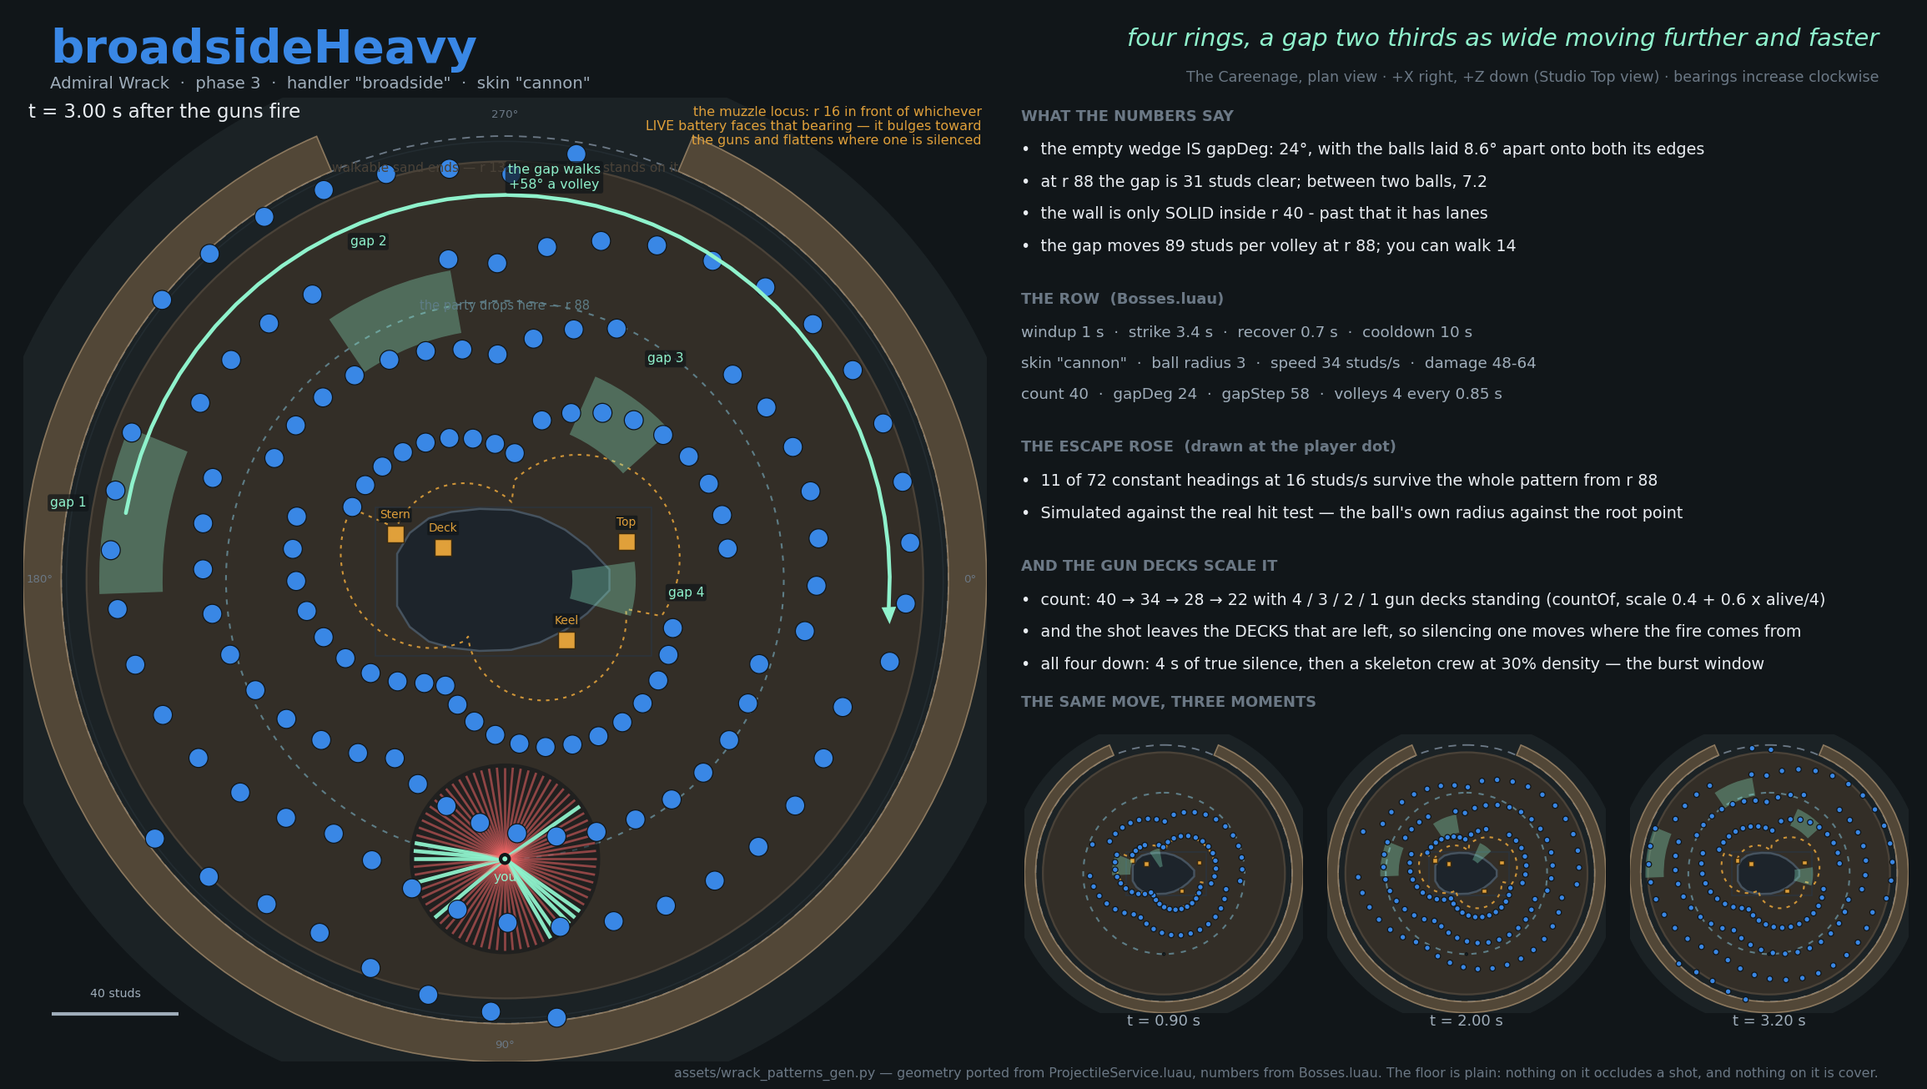
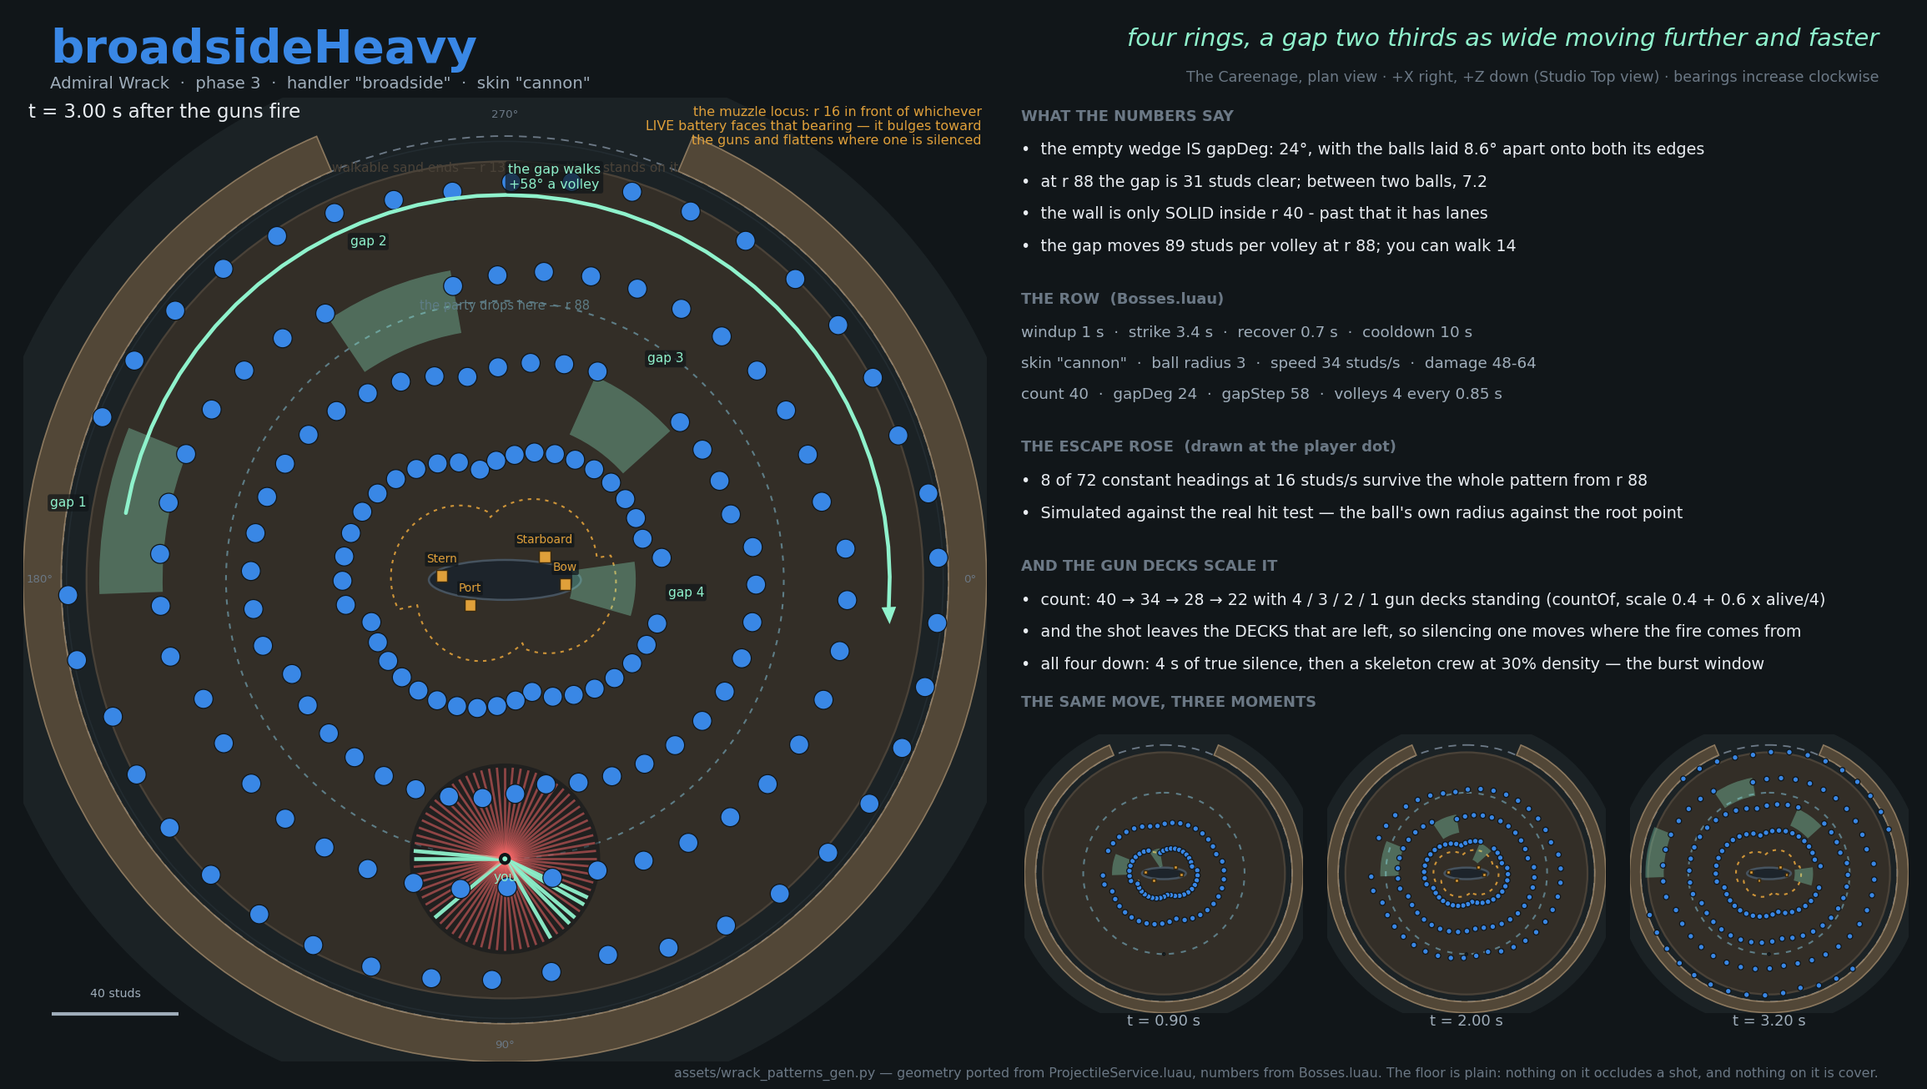
Wrack's pattern previews: five ball rows left, and the ship they are drawn round is the upright one
The roster rework retires chainshot, slewfire, slewfireFast and grapeshotTwin,
so their diagrams go with them and the escape roses are re-measured over the
five rows that remain. The plans are also re-drawn against the rebuilt hull:
the four cannons now stand at flat radii 13.5-20.0 (they were 22-40), which
moves every muzzle locus in the fight twenty studs inboard, and the footprint
is the measured 48 x 12.6 bounding box rather than the careened wreck's
station curve - stated as an outline, because this file does not have the new
mesh's stations and will not invent them.

The five mechanics that replaced those rows are printed, not drawn. A plan
view answers "where is the safe lane and how wide is it", which is the whole
question for a wall of cannonballs and almost none of the question for a keg
you shoot, a pillar you douse or a boarding party you race. They get a HANDOFF
block instead, with the numbers DERIVED rather than transcribed - the fuse
against the closing speed, the march against the health bar, the jam against
the battery - so a retune that breaks the intent shows up in a diff instead of
only in play.

That derivation immediately earned itself: it showed a powder keg born at its
own gun would take thirty-four seconds to close sixty-eight studs at walk-plus-
two, which is a chaser nobody would ever have to answer. The keg is lobbed to
28 studs short of its target instead, and the row now says so in one number.

diff --git a/assets/wrack_patterns_gen.py b/assets/wrack_patterns_gen.py
@@ -55,9 +55,28 @@ USAGE
 -----
     python3 assets/wrack_patterns_gen.py [out_dir]
 
-Writes `wrack_pattern_<name>.png` for each of the nine rows plus
-`wrack_patterns_sheet.png`, the contact sheet. Default out_dir is the
+Writes `wrack_pattern_<name>.png` for each of the FIVE surviving ball rows
+plus `wrack_patterns_sheet.png`, the contact sheet. Default out_dir is the
 directory this script lives in.
+
+WHAT THIS FILE DOES *NOT* DRAW, AS OF THE 2026-09-08 ROSTER REWORK
+------------------------------------------------------------------
+Four of the nine ball rows were retired (chainshot, slewfire, slewfireFast,
+grapeshotTwin) and five mechanics took their place - a homing keg you shoot,
+three pillars you douse, a battery you jam, a chain you break, a boarding
+party you stop. They are gone from `ATTACKS` and `ORDER` here, so the escape
+roses below are re-measured over the surviving five and nothing else.
+
+The five NEW mechanics are deliberately not drawn. A plan view answers
+"where is the safe lane and how wide is it in studs", which is the whole
+question for a wall of cannonballs and almost none of the question for any of
+them: their answers are ranges, timings and target priorities, not geometry.
+A picture of a keg at one instant would say nothing true. What they get
+instead is the HANDOFF block at the bottom of a run - their key numbers,
+derived rather than transcribed where a derivation exists (the fuse budget
+against the closing speed, the march against the health bar, the jam against
+the battery), printed so they can be diffed against the Luau exactly the way
+the drawn rows' numbers are.
 """
 
 import math
@@ -71,7 +90,7 @@ matplotlib.use("Agg")
 
 import matplotlib.pyplot as plt
 import numpy as np
-from matplotlib.patches import Arc, Circle, FancyArrow, Polygon, Rectangle, Wedge
+from matplotlib.patches import Arc, Circle, Ellipse, FancyArrow, Polygon, Rectangle, Wedge
 
 TAU = math.pi * 2
 
@@ -96,26 +115,6 @@ ATTACKS = {
         pellets=8, fanDeg=40, speed=66, spawnAt=22, radius=1.6, lifetime=1.8,
         bursts=1, burstGap=0.35, tellRange=110, damage=(40, 54),
     ),
-    "grapeshotTwin": dict(
-        handler="grapeshot", skin="grape", windup=0.7, duration=0.9, recover=0.45, cooldown=6.5,
-        pellets=9, fanDeg=56, speed=66, spawnAt=22, radius=1.6, lifetime=1.8,
-        bursts=2, burstGap=0.4, tellRange=110, damage=(42, 56),
-    ),
-    "chainshot": dict(
-        handler="chainshot", skin="chain", windup=1.0, duration=0.5, recover=0.7, cooldown=11.0,
-        pairs=4, fanDeg=130, chain=18, chainRadius=1.8, spinDeg=126, speed=28,
-        radius=2.4, spawnAt=14, lifetime=4.5, tellRange=110, damage=(54, 72),
-    ),
-    "slewfire": dict(
-        handler="slewfire", skin="cannon", windup=1.0, duration=5.0, recover=0.8, cooldown=13.0,
-        arms=2, every=0.13, spinDeg=78, speed=30, radius=2.6, spawnAt=14,
-        lifetime=4.2, damage=(32, 42),
-    ),
-    "slewfireFast": dict(
-        handler="slewfire", skin="cannon", windup=0.9, duration=5.6, recover=0.8, cooldown=14.0,
-        arms=3, every=0.13, spinDeg=-96, speed=32, radius=2.6, spawnAt=14,
-        lifetime=3.95, damage=(34, 46),
-    ),
     "anchorsweep": dict(
         handler="anchorsweep", skin="anchor", windup=3.2, duration=0.6, recover=1.1, cooldown=16.0,
         count=23, arcDeg=180, speed=26, radius=4.2, spawnAt=16, lifetime=4.8,
@@ -132,13 +131,13 @@ ATTACKS = {
 # additions, then the phase-3 swaps. `phases` in Bosses.luau.
 ORDER = [
     "grapeshot", "broadside", "wisps",
-    "chainshot", "slewfire", "anchorsweep",
-    "grapeshotTwin", "broadsideHeavy", "slewfireFast",
+    "anchorsweep",
+    "broadsideHeavy",
 ]
 PHASE_OF = {
     "grapeshot": 1, "broadside": 1, "wisps": 1,
-    "chainshot": 2, "slewfire": 2, "anchorsweep": 2,
-    "grapeshotTwin": 3, "broadsideHeavy": 3, "slewfireFast": 3,
+    "anchorsweep": 2,
+    "broadsideHeavy": 3,
 }
 
 # ---- the arena (assets/arena_gen.py, WK_* constants) -----------------------
@@ -178,11 +177,17 @@ PLAN_SPAN = 152.0
 # POINTS ALONG +X. spawnBossParts' mount transform therefore reduces to a
 # straight translation, so a mount's boss-local (X, Z) IS its world offset.
 BOSS_YAW0 = 0.0
+# THE UPRIGHT REBUILD (mesh 7673cd1, 2026-09-08). She stands instead of lying
+# careened, at less than half the size, with four INTEGRAL cannons 90 degrees
+# apart. Transcribed from `parts.mounts` in Bosses.luau, where the entry is
+# Vector3(X, Y, Z) and Y is the height: the columns below are (label, X, Z, Y).
+# Flat radii 13.5-20.0 against the careened wreck's 22-40, which is why the
+# muzzle locus in every diagram below sits twenty studs tighter than it used to.
 MOUNTS = [  # (label, local X, local Z, height above the sand)
-    ("Deck", -19.50, -10.34, 35.70),
-    ("Keel", 19.38, 18.91, 10.55),
-    ("Stern", -34.62, -14.37, 29.08),
-    ("Top", 38.40, -11.99, 27.71),
+    ("Bow", 19.05, 1.40, 12.40),
+    ("Starboard", 12.50, -7.30, 9.00),
+    ("Stern", -19.95, -1.30, 9.35),
+    ("Port", -11.00, 7.90, 9.20),
 ]
 # THE GUNS, AS EMITTERS. Since 2026-09-06 every ball leaves a LIVE BATTERY,
 # not a circle round the arena centre - `ctx.muzzle` / `ctx.decks` in
@@ -190,21 +195,32 @@ MOUNTS = [  # (label, local X, local Z, height above the sand)
 # (the balls fly in one plane; the heights above only place the muzzle flash).
 MOUNT_XZ = [(mx, mz) for _label, mx, mz, _h in MOUNTS]
 MOUNT_LABEL = [label for label, _x, _z, _h in MOUNTS]
+# Flat radii of the four cannons, and the closest pair's spacing. Derived here
+# rather than remembered, because three of the new mechanics are tuned against
+# them (the keg's spawn, the boarders' `reach`, the overload's marker size) and
+# all three moved when the mesh did.
+GUN_R = [math.hypot(mx, mz) for _label, mx, mz, _h in MOUNTS]
+GUN_R_MIN, GUN_R_MAX = min(GUN_R), max(GUN_R)
+MOUNT_MIN_GAP = min(math.hypot(a[1] - b[1], a[2] - b[2])
+                    for i, a in enumerate(MOUNTS) for b in MOUNTS[i + 1:])
+# Creatures.items.wrack_battery.health - what `jam` and `repair` are fractions
+# of, and the one number those two rows cannot be read without.
+BATTERY_HP = 2800
+
 # Every battery alive. `wrackDecks` in CreatureService hands ProjectileService
 # exactly this list, minus whatever the party has broken.
 DECKS_ALIVE = [0, 1, 2, 3]
-# WR_HULL stations (boss_gen.py): (ship-space x, half-beam, ...). Only the
-# first two columns matter for a footprint.
-WR_STATIONS = [
-    (-34.0, 5.0), (-30.0, 9.0), (-24.0, 11.8), (-17.0, 13.0), (-8.0, 13.6),
-    (2.0, 13.4), (11.0, 12.0), (19.0, 9.6), (26.0, 6.4), (33.0, 2.0),
-]
-# WrackBodyController.AUTHORED, measured off the exported glb: the Hull piece
-# is 67 long x 44.8 across, the Base (her bed of spoil) 87.1 x 47. The
-# stations above are 67 long too, so they are scaled across the beam to the
-# measured 44.8 and used as the footprint's outline.
-HULL_BBOX = (67.0, 44.8)
-BASE_BBOX = (87.1, 47.0)
+# THE FOOTPRINT, AND WHAT IT IS NOT. The careened wreck was drawn here from
+# `WR_HULL`'s ten stations, scaled across to the measured beam - a real
+# waterline profile. The upright rebuild's stations are the mesh lane's to
+# publish and this file does not have them, so it draws the MEASURED BOUNDING
+# BOX instead: 48 studs bow to stern, 12.6 in the beam (mesh HANDOFF, 7673cd1),
+# as a plain ellipse. That is honest about being an outline rather than a hull,
+# and it is the right call for these diagrams anyway - nothing here is a
+# question about the ship's shape, and at a 152-stud half-span the difference
+# between an ellipse and a fair curve is under a pixel. Her bed of spoil is
+# gone with the careening: she stands on the sand.
+HULL_BBOX = (48.0, 12.6)
 
 PLAYER_SPEED = 16.0  # Roblox default; nothing in src/ sets Humanoid.WalkSpeed.
 PLAYER_DOT_R = 1.0   # the root part is 2x2x1; the hit test is a POINT vs the ball radius.
@@ -820,24 +836,19 @@ def draw_arena(ax, small=False):
         ax.text(0, -PARTY_R + 3.5, "the party drops here — r %g" % PARTY_R, color="#5e7d86",
                 fontsize=7.0, ha="center", va="bottom", zorder=20)
 
-    # the hull footprint, from the WR_HULL stations scaled across to the
-    # measured Hull bbox (44.8 studs in the beam), bow at +X.
-    kmax = max(h for _, h in WR_STATIONS)
-    scale = (HULL_BBOX[1] / 2.0) / kmax
-    top = [(x, -h * scale) for x, h in WR_STATIONS]
-    bot = [(x, h * scale) for x, h in reversed(WR_STATIONS)]
-    ax.add_patch(Polygon(top + bot, closed=True, facecolor=HULL, edgecolor=HULL_EDGE,
-                         lw=1.2, zorder=6))
-    # her bed of spoil (the Base piece, 87.1 x 47)
-    ax.add_patch(Rectangle((2.8 - BASE_BBOX[0] / 2, 0.6 - BASE_BBOX[1] / 2), *BASE_BBOX,
-                           facecolor="none", edgecolor="#2c343b", lw=0.8, zorder=5))
+    # the hull footprint: the measured bounding box of the upright ship, bow at
+    # +X (see HULL_BBOX for why this is an ellipse and not a station curve).
+    ax.add_patch(Ellipse((0, 0), HULL_BBOX[0], HULL_BBOX[1], facecolor=HULL,
+                         edgecolor=HULL_EDGE, lw=1.2, zorder=6))
 
     # the four gun decks
     for label, mx, mz, height in MOUNTS:
-        ax.add_patch(Rectangle((mx - 2.6, mz - 2.6), 5.2, 5.2, facecolor=BRASS,
+        # 3.6 studs across, not the wreck's 5.2: the four cannons are only
+        # 10.9-13.5 studs apart now and two 5.2-stud squares would touch.
+        ax.add_patch(Rectangle((mx - 1.8, mz - 1.8), 3.6, 3.6, facecolor=BRASS,
                                edgecolor="#3a2a10", lw=0.7, zorder=8))
         if not small:
-            ax.text(mx, mz - 4.2, label, color=BRASS, fontsize=6.6, ha="center",
+            ax.text(mx, mz - 3.4, label, color=BRASS, fontsize=6.6, ha="center",
                     va="bottom", zorder=20,
                     bbox=dict(boxstyle="round,pad=0.12", fc=BG, ec="none", alpha=0.75))
 
@@ -991,10 +1002,6 @@ MOMENTS = {
     "broadside": (3.00, (1.00, 2.20, 3.40)),
     "broadsideHeavy": (3.00, (0.90, 2.00, 3.20)),
     "grapeshot": (0.85, (0.30, 0.85, 1.40)),
-    "grapeshotTwin": (1.00, (0.35, 1.00, 1.55)),
-    "chainshot": (2.60, (0.90, 2.60, 4.00)),
-    "slewfire": (3.40, (1.20, 3.40, 5.00)),
-    "slewfireFast": (3.40, (1.20, 3.40, 5.00)),
     "anchorsweep": (2.40, (0.80, 2.40, 4.00)),
     "wisps": (3.00, (1.00, 3.00, 5.20)),
 }
@@ -1004,10 +1011,6 @@ ANSWER = {
     "broadside": "walk to the gap - and keep walking, it steps 46° every volley",
     "broadsideHeavy": "four rings, a gap two thirds as wide moving further and faster",
     "grapeshot": "step out of the cone DURING the tell, not after it",
-    "grapeshotTwin": "two waves, the second offset half a pellet - break to the SHORT edge",
-    "chainshot": "the gap inside a pair is the hitbox; the lane is BETWEEN pairs",
-    "slewfire": "read the rotation and walk against it - cross the arms the short way",
-    "slewfireFast": "same spiral, REVERSED - the way you learned to walk is now wrong",
     "anchorsweep": "you do not thread it, you leave - and the long windup is the walk",
     "wisps": "run a circle tighter than their turn radius — any bare sand will do",
 }
@@ -1610,6 +1613,121 @@ def render_sheet(out_dir):
     return path
 
 
+# ============================================================ the five new verbs
+#
+# Transcribed from the new rows in `Bosses.items.admiral_wrack.attacks` the
+# same way `ATTACKS` above is, and printed rather than drawn (see the module
+# docstring for why). `derive` is where the number the DESIGN is actually
+# about gets computed from the row - the fuse budget, the march, the jam - so
+# that a retune which breaks the intent shows up here instead of only in play.
+NEW_MECHANICS = {
+    "powderrun": dict(
+        row=dict(windup=1.0, duration=0.5, recover=0.6, cooldown=12.0,
+                 count=1, fuse=8.0, speed=18, spawnAt=28, blast=15,
+                 blastFuse=20, chainAt=12, damage=(58, 80), hp=900),
+        verb="SHOOT THE CHASER - and where you shoot it is the move",
+        derive=lambda r: [
+            ("closing speed", "%.0f studs/s (keg %g - walk %g)" % (r["speed"] - PLAYER_SPEED,
+                                                                  r["speed"], PLAYER_SPEED)),
+            ("fuse reach", "%.0f studs of closing over %g s" % ((r["speed"] - PLAYER_SPEED) * r["fuse"],
+                                                               r["fuse"])),
+            ("lands short of you by", "%g studs (lobbed, not rolled)" % r["spawnAt"]),
+            ("a perfect runner ends the fuse", "%.0f studs away - inside blastFuse %g, so RUNNING LOSES"
+             % (r["spawnAt"] - (r["speed"] - PLAYER_SPEED) * r["fuse"], r["blastFuse"])),
+            ("if it were born at its gun", "%.0f studs out, %.0f s to arrive - IGNORABLE"
+             % (PARTY_R - GUN_R_MAX,
+                (PARTY_R - GUN_R_MAX) / max(r["speed"] - PLAYER_SPEED, 1e-6))),
+            ("safe kill range", "beyond %g studs (blast %g), so a shot on landing is free"
+             % (r["blast"], r["blast"])),
+        ],
+    ),
+    "powderrunTwin": dict(
+        row=dict(windup=0.9, duration=0.5, recover=0.6, cooldown=13.0,
+                 count=2, fuse=7.0, speed=18, spawnAt=28, blast=15,
+                 blastFuse=20, chainAt=12, damage=(60, 84), hp=900),
+        verb="phase 3: two kegs, two bearings, and they set each other off",
+        derive=lambda r: [
+            ("a perfect runner ends the fuse", "%.0f studs away (blastFuse %g)"
+             % (r["spawnAt"] - (r["speed"] - PLAYER_SPEED) * r["fuse"], r["blastFuse"])),
+            ("chain radius", "%g studs - kill them apart" % r["chainAt"]),
+        ],
+    ),
+    "ghostbraziers": dict(
+        row=dict(windup=1.2, duration=6.8, recover=0.9, cooldown=22.0,
+                 count=3, ring=70, charge=6.0, safeDeg=100, behindAt=8,
+                 damage=(72, 96), hp=1400),
+        verb="SHOOT THE PILLAR - each one doused opens the sector behind it",
+        derive=lambda r: [
+            ("pillars", "%d on r %g, %.0f deg apart" % (r["count"], r["ring"], 360.0 / r["count"])),
+            ("safe arc at the ring", "%.0f studs" % (math.radians(r["safeDeg"]) * r["ring"])),
+            ("safe arc at the drop ring", "%.0f studs" % (math.radians(r["safeDeg"]) * PARTY_R)),
+            ("walk to a sector edge", "%.0f studs, %.1f s at %g studs/s"
+             % (math.radians(180.0 / r["count"]) * PARTY_R,
+                math.radians(180.0 / r["count"]) * PARTY_R / PLAYER_SPEED, PLAYER_SPEED)),
+            ("douse budget", "%d hp in %g s = %.0f dps per pillar" % (r["hp"], r["charge"],
+                                                                     r["hp"] / r["charge"])),
+            ("douse nothing", "the wave takes the whole floor - r %g" % BOUND_R),
+        ],
+    ),
+    "cannonoverload": dict(
+        row=dict(windup=3.0, duration=0.6, recover=0.9, cooldown=20.0,
+                 jam=0.15, bonus=0.10, markAt=5, speed=22, radius=7,
+                 spawnAt=20, lifetime=5.4, damage=(70, 92),
+                 burst=dict(count=16, speed=34, radius=2.6, spawnAt=3, lifetime=2.4, mult=0.6)),
+        verb="SHOOT THE GUN THAT IS WINDING UP - 15% of its bar jams it",
+        derive=lambda r: [
+            ("jam threshold", "%.0f damage in %g s = %.0f dps" % (r["jam"] * BATTERY_HP, r["windup"],
+                                                                 r["jam"] * BATTERY_HP / r["windup"])),
+            ("jam bonus", "%.0f damage (%.0f%% of the battery)" % (r["bonus"] * BATTERY_HP,
+                                                                  r["bonus"] * 100)),
+            ("mega-shot reach", "%.0f studs (bound %g)" % (r["spawnAt"] + r["speed"] * r["lifetime"],
+                                                           BOUND_R)),
+            ("time to cross the beach", "%.1f s at %g studs/s" % (SAND_R / r["speed"], r["speed"])),
+            ("burst solid to", "r %.0f (16 balls of r %g)"
+             % (2 * r["burst"]["radius"] / math.radians(360.0 / r["burst"]["count"]),
+                r["burst"]["radius"])),
+            ("marker vs mount spacing", "%g studs against %.1f - it names ONE gun"
+             % (r["markAt"], MOUNT_MIN_GAP)),
+        ],
+    ),
+    "anchorline": dict(
+        row=dict(windup=1.6, duration=4.6, recover=0.8, cooldown=17.0,
+                 overshoot=25, drag=4.2, stopAt=18, chain=34, chainRadius=4.0,
+                 radius=3.0, lifetime=4.2, damage=(56, 74), hp=700),
+        verb="LEAVE BY ITS END, or break the midlink and it dies that frame",
+        derive=lambda r: [
+            ("lands at", "r %.0f from a player on the drop ring" % min(PARTY_R + r["overshoot"],
+                                                                      BOUND_R - 8)),
+            ("drag speed", "%.1f studs/s (span %.0f over %g s)"
+             % ((min(PARTY_R + r["overshoot"], BOUND_R - 8) - r["stopAt"]) / r["drag"],
+                min(PARTY_R + r["overshoot"], BOUND_R - 8) - r["stopAt"], r["drag"])),
+            ("walk to clear its end", "%.0f studs, %.1f s" % (r["chain"] / 2 + r["chainRadius"],
+                                                              (r["chain"] / 2 + r["chainRadius"]) / PLAYER_SPEED)),
+            ("lifetime vs drag", "%g / %g - MUST match" % (r["lifetime"], r["drag"])),
+            ("snap budget", "%d hp inside %g s = %.0f dps" % (r["hp"], r["drag"], r["hp"] / r["drag"])),
+        ],
+    ),
+    "longboat": dict(
+        row=dict(windup=1.4, duration=0.6, recover=0.8, cooldown=26.0,
+                 count=3, beachAt=46, spread=11, speed=9.5, reach=20,
+                 march=26, repair=0.25, hp=1300),
+        verb="STOP THE ONES RUNNING THE OTHER WAY - each arrival repairs a gun",
+        derive=lambda r: [
+            ("beach at", "r %.0f" % (PARTY_R - 8 + r["beachAt"])),
+            ("march", "%.0f studs at %g studs/s = %.1f s"
+             % (PARTY_R - 8 + r["beachAt"] - r["reach"], r["speed"],
+                (PARTY_R - 8 + r["beachAt"] - r["reach"]) / r["speed"])),
+            ("kill budget", "%d hp in %.1f s = %.0f dps"
+             % (r["count"] * r["hp"], (PARTY_R - 8 + r["beachAt"] - r["reach"]) / r["speed"],
+                r["count"] * r["hp"] / ((PARTY_R - 8 + r["beachAt"] - r["reach"]) / r["speed"]))),
+            ("cost of letting them through", "%.0f hp per boarder, %.0f for all %d"
+             % (r["repair"] * BATTERY_HP, r["count"] * r["repair"] * BATTERY_HP, r["count"])),
+            ("reach vs the hull", "%g studs against mounts at %.1f-%.1f" % (r["reach"], GUN_R_MIN, GUN_R_MAX)),
+        ],
+    ),
+}
+
+
 def main():
     out_dir = sys.argv[1] if len(sys.argv) > 1 else os.path.dirname(os.path.abspath(__file__))
     os.makedirs(out_dir, exist_ok=True)
@@ -1633,6 +1751,23 @@ def main():
               % (name, MOMENTS[name][0], len(live_balls(name, MOMENTS[name][0])[0])
                  + 2 * len(live_balls(name, MOMENTS[name][0])[1]), ok,
                  "; ".join("%s %.1f" % (k, v) for k, v in sorted(n.items()))))
+
+    # ...and the five that are not drawn. Not an escape rose - none of these is
+    # a walking problem - but the numbers the design is actually about, so a
+    # retune that breaks the intent is visible in a diff of this output.
+    print("")
+    print("HANDOFF  the four cannons: r %.1f-%.1f, closest pair %.1f studs apart, "
+          "%.1f-%.1f studs up" % (GUN_R_MIN, GUN_R_MAX, MOUNT_MIN_GAP,
+                                  min(h for _, _, _, h in MOUNTS),
+                                  max(h for _, _, _, h in MOUNTS)))
+    for name, spec in NEW_MECHANICS.items():
+        r = spec["row"]
+        print("")
+        print("HANDOFF %-15s %s" % (name, spec["verb"]))
+        print("        %-26s windup %.1f · strike %.1f · recover %.1f · cooldown %.1f"
+              % ("", r["windup"], r["duration"], r["recover"], r["cooldown"]))
+        for label, value in spec["derive"](r):
+            print("        %-26s %s" % (label, value))
 
 
 if __name__ == "__main__":
